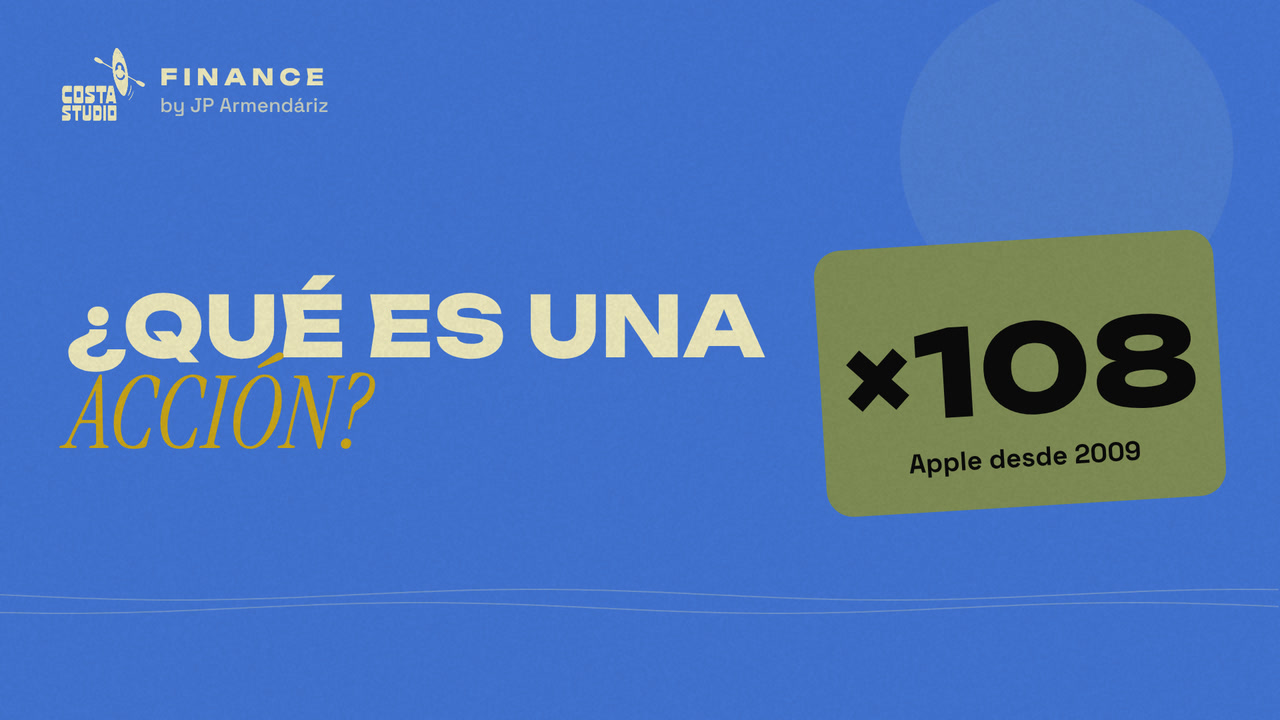
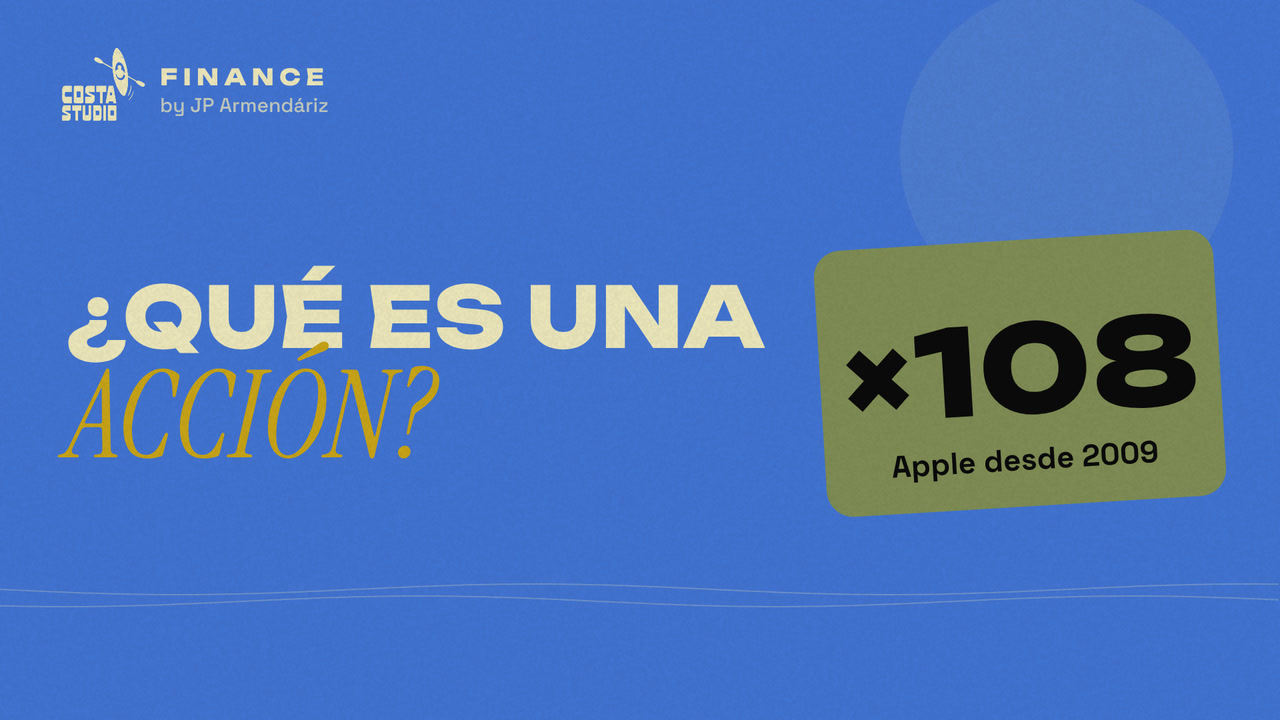
Miniaturas del video 1 (3 variantes para A/B) y miniaturas más legibles en el motor
Claude-Session: https://claude.ai/code/session_01FvjQ3qfLCHUtpiWXFRFrFj

Changed region(s): [[0.0312, 0.3667, 0.5938, 0.6417], [0.0, 0.7944, 1.0, 0.8556], [0.6875, 0.6111, 0.9062, 0.6722]]

diff --git a/finance-videos/engine/long.js b/finance-videos/engine/long.js
@@ -469,15 +469,15 @@ function renderThumb() {
   const lg = logoTint(ink); if (lg) X.drawImage(lg, 90, 70, 130, 114);
   txt('FINANCE', 240, 128, { f: F.d, w: 800, s: 34, ls: 8, c: ink }); txt(V.brand.byline || '', 240, 168, { f: F.b, w: 500, s: 30, c: ink, a: .75 });
   const lines = (T.lines || [T.text || '']).slice(0, 3), emw = (T.emphasis || '').toLowerCase();
-  const maxW = T.big ? 1060 : 1700;
-  let size = T.size || 150; for (const l of lines) size = Math.min(size, fit(l, F.d, 800, size, maxW, 70));
-  const lh = size * 1.08, y0 = 560 - (lines.length - 1) * lh / 2 + size * .35;
+  const maxW = T.big ? 1060 : 1720;
+  let size = T.size || 190; for (const l of lines) size = Math.min(size, fit(l, F.d, 800, size, maxW, 70));
+  const lh = size * 1.3, y0 = 560 - (lines.length - 1) * lh / 2 + size * .35;
   lines.forEach((l, i) => { const isE = emw && l.toLowerCase().includes(emw);
-    txt(l, 100, y0 + i * lh, { f: isE ? F.s : F.d, w: isE ? 400 : 800, s: isE ? size * 1.2 : size, c: isE ? em : ink }); });
+    txt(l, 100, y0 + i * lh, { f: isE ? F.s : F.d, w: isE ? 400 : 800, s: isE ? size * 1.45 : size, c: isE ? em : ink }); });
   if (T.big) { const col = T.big_tone === 'down' ? B.terracota : T.big_tone === 'up' ? B.musgo : B.mostaza;
     X.save(); X.translate(1530, 560); X.rotate(-.06); rr(-300, -200, 600, 400, 40); X.fillStyle = col; X.fill();
-    txt(T.big, 0, 60, { f: F.d, w: 800, s: fit(T.big, F.d, 800, 200, 540, 60), al: 'center', c: th === 'blue' ? B.negro : B.arena });
-    if (T.big_sub) txt(T.big_sub, 0, 140, { f: F.b, w: 700, s: 40, al: 'center', c: th === 'blue' ? B.negro : B.arena }); X.restore(); }
+    txt(T.big, 0, 60, { f: F.d, w: 800, s: fit(T.big, F.d, 800, 230, 540, 60), al: 'center', c: th === 'blue' ? B.negro : B.arena });
+    if (T.big_sub) txt(T.big_sub, 0, 145, { f: F.b, w: 700, s: fit(T.big_sub, F.b, 700, 46, 540, 26), al: 'center', c: th === 'blue' ? B.negro : B.arena }); X.restore(); }
   X.save(); X.globalAlpha = .05; X.globalCompositeOperation = 'multiply'; X.drawImage(grain, 0, 0, W, H); X.restore();
 }
 

diff --git a/finance-videos/scripts/render.js b/finance-videos/scripts/render.js
@@ -52,9 +52,11 @@ async function renderRange(b, vjs, long, f0, f1, out, audio, label, opts) {
 
   if (mode === '--thumb') {
     const pg = await openPage(b, vjs, true);
-    const img = Buffer.from((await pg.evaluate(() => { renderThumb(); return document.getElementById('c').toDataURL('image/png'); })).split(',')[1], 'base64');
+    // variante opcional: node render.js <dir> --thumb <nombre> '<json con campos de thumbnail>'
+    const name = process.argv[4], over = process.argv[5] ? JSON.parse(process.argv[5]) : null;
+    const img = Buffer.from((await pg.evaluate((o) => { if (o) window.VIDEO.thumbnail = o; renderThumb(); return document.getElementById('c').toDataURL('image/png'); }, over)).split(',')[1], 'base64');
     const tmp = path.join(build, 'thumb_full.png'); fs.writeFileSync(tmp, img);
-    const out = path.join(vdir, 'miniatura.jpg');
+    const out = path.join(vdir, name ? `miniatura_${name}.jpg` : 'miniatura.jpg');
     execFileSync('ffmpeg', ['-loglevel', 'error', '-y', '-i', tmp, '-vf', 'scale=1280:720:flags=lanczos', '-q:v', '2', out]);
     console.log('miniatura: ' + out); await b.close(); return;
   }
